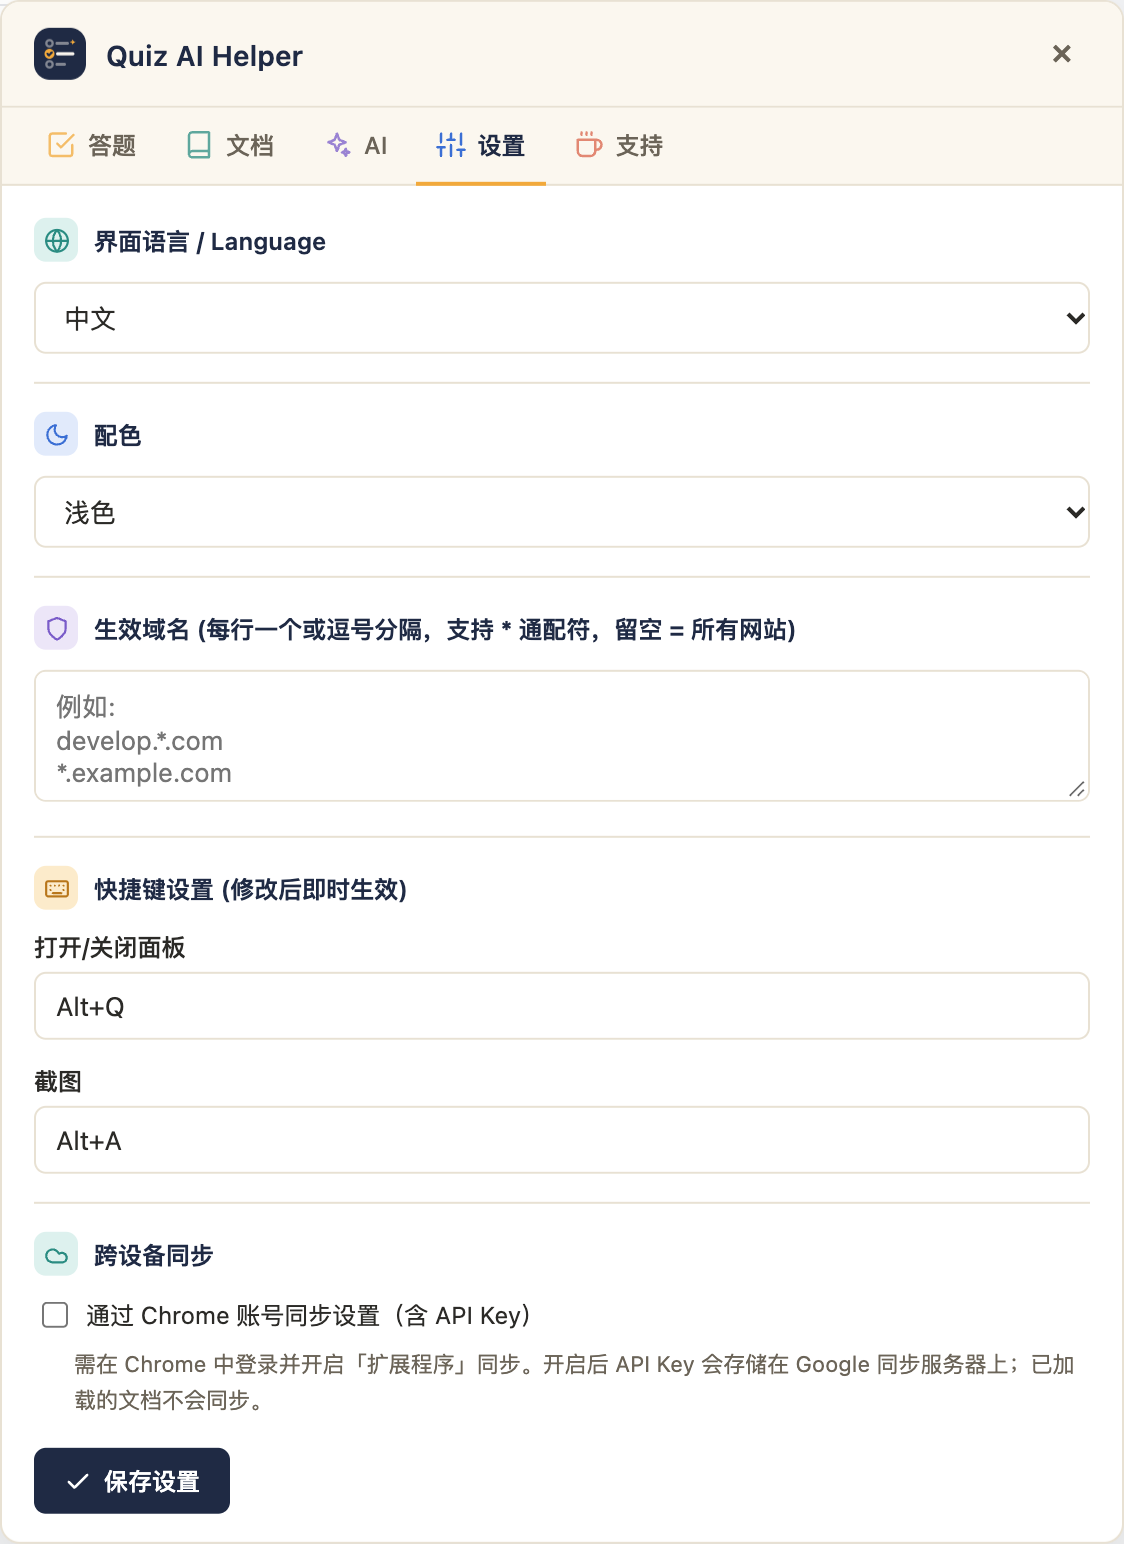
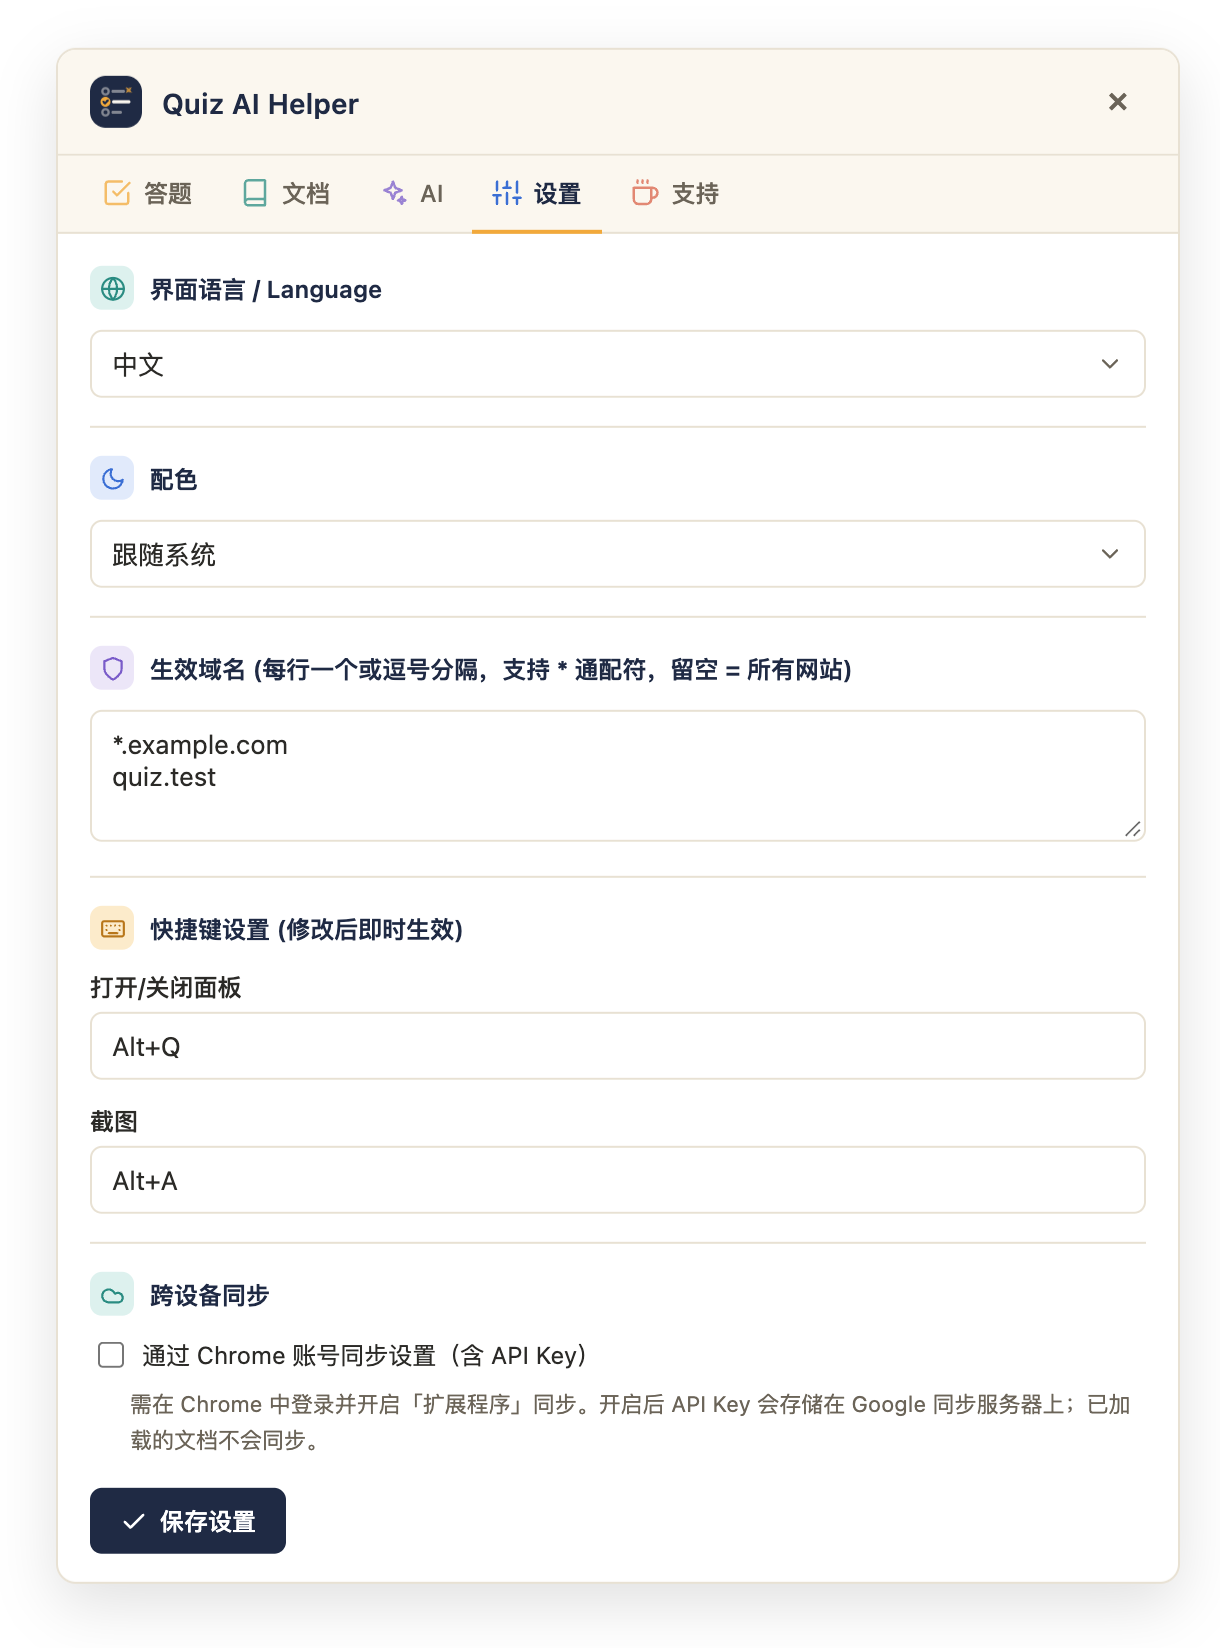
docs: refresh README screenshots with transparent backgrounds, add npm run screenshots
- scripts/screenshots.mjs drives the real build in Playwright against a mock quiz
  page and mock OpenAI-compatible API, writing EN + ZH shots to docs/screenshots
- panel shots are RGBA PNGs (page hidden, shadow kept); new 07-ai-presets shot
- README: multi-provider setup and preset picker, Firefox/Edge support,
  vision notes (DeepSeek has no image input), providers.js in the tree

diff --git a/README.md b/README.md
@@ -8,7 +8,7 @@
 
 **English** | [中文](README.zh-CN.md)
 
-A Chrome extension (Manifest V3): load reference documents, and the AI reads them and answers the quiz questions on the page. Supports screenshot recognition, multiple document formats, and OpenAI / Anthropic or any compatible API.
+A browser extension (Manifest V3) for Chrome, Edge, Firefox and other Chromium browsers: load reference documents, and the AI reads them and answers the quiz questions on the page. Supports screenshot recognition, multiple document formats, and OpenAI / Anthropic or any compatible API.
 
 ## Features
 
@@ -50,6 +50,8 @@ A Chrome extension (Manifest V3): load reference documents, and the AI reads the
 
 Run `npm run dev` (or `npm run dev:firefox`), then load `.output/chrome-mv3-dev` (or `firefox-mv3-dev`) once as an unpacked extension; it rebuilds and reloads the extension on every change. `npm run zip` / `npm run zip:firefox` produce store-ready zips in `.output/`.
 
+After UI changes, `npm run screenshots` rebuilds and regenerates the README screenshots (EN + ZH) in `docs/screenshots/` with Playwright, against a mock quiz page and mock AI API (no key needed; macOS, run `npx playwright install chromium` once).
+
 ### Releasing
 
 Every push and PR is built and checked by GitHub Actions. To publish a release, bump the version and push a matching tag; the workflow attaches the Chrome / Firefox / Edge zips to a GitHub Release:
@@ -70,17 +72,23 @@ After installing, a floating button appears at the bottom right of any enabled p
 
 ### 2. Configure the AI provider
 
-In the **AI** tab, click **Add**, pick a preset (or Custom), enter your API key, pick a model (or click Refresh to fetch the available ones) and save. Add as many as you like and click a card to switch the one in use. The AI answer language is set here too. The **Settings** tab holds the interface language, theme, active domains, hotkeys and sync:
+In the **AI** tab, click **Add** and pick a preset (or Custom):
 
-![AI tab](docs/screenshots/04-ai-tab.png)
+<img src="docs/screenshots/07-ai-presets.png" alt="Choose a provider" width="520">
 
-![Settings tab](docs/screenshots/05-settings-tab.png)
+Enter your API key (each preset links to the page where you get one), pick a model (or click Refresh to fetch the available ones) and save. Add as many as you like and click a card to switch the one in use; with two or more saved, the Answer tab also gets a quick switcher. The AI answer language is set here too:
+
+<img src="docs/screenshots/04-ai-tab.png" alt="AI tab" width="520">
+
+The **Settings** tab holds the interface language, theme, active domains, hotkeys and sync:
+
+<img src="docs/screenshots/05-settings-tab.png" alt="Settings tab" width="520">
 
 ### 3. Load reference documents (optional)
 
 In the **Docs** tab, upload local files (PDF / Word / TXT / Markdown) or paste a link. Multiple selection is supported, and web pages and PDFs are detected automatically:
 
-![Docs tab](docs/screenshots/03-docs-tab.png)
+<img src="docs/screenshots/03-docs-tab.png" alt="Docs tab" width="520">
 
 You can also click **Scan this page** to detect PDFs embedded in the page (`iframe` / `embed` / links) and load them as references in one click. PDFs inside cross-origin iframes are found too: the extension runs inside each iframe and relays the results upward through messages (nested iframes are supported). Wait for the page, including its iframes, to finish loading before scanning.
 
@@ -96,7 +104,7 @@ Screenshots and pastes are added to a list rather than replacing each other, so 
 
 Then click **Ask AI** to get the answer:
 
-![Answer tab](docs/screenshots/02-answer-tab.png)
+<img src="docs/screenshots/02-answer-tab.png" alt="Answer tab" width="520">
 
 ## Language settings
 
@@ -109,7 +117,7 @@ Two separate options:
 
 In the **Settings** tab, pick **Auto** (follows the system light/dark setting, default), **Light** or **Dark**. The change applies immediately.
 
-![Dark theme](docs/screenshots/06-dark-theme.png)
+<img src="docs/screenshots/06-dark-theme.png" alt="Dark theme" width="520">
 
 ## Active domains
 
@@ -125,7 +133,7 @@ Leave it empty to enable all sites again.
 ## Notes
 
 - Screenshots require the current tab to be active.
-- Only vision-capable models (such as `gpt-4o`) can read questions from screenshots.
+- Only vision-capable models (such as `gpt-4o`, Claude, Gemini, `qwen-vl-max`) can read questions from screenshots. The DeepSeek API does not accept images, so with it type the question instead; for Ollama, use a vision model such as `qwen2.5vl`.
 - The third-party libraries for PDF / DOCX parsing and Markdown rendering are injected on demand, only on first use, so everyday browsing is unaffected.
 
 ## Project structure
@@ -142,13 +150,16 @@ Built with [WXT](https://wxt.dev); the manifest is generated per browser from `w
 │       ├── index.js       # Content script entry (matches / frames)
 │       ├── main.js        # UI panel, answering logic
 │       ├── i18n.js        # Chinese / English strings and prompt dictionaries
-│       ├── icons.js       # Logo and line-icon SVGs
+│       ├── icons.js       # Logo, line-icon and provider brand SVGs
+│       ├── providers.js   # AI provider presets (endpoint, model, key link)
 │       └── style.css      # Panel styles
 ├── public/                # Copied as-is into the build
 │   ├── _locales/          # Store name and description (zh_CN / en)
 │   ├── lib/               # Third-party libraries (pdf.js / marked / mammoth)
 │   └── images/            # Extension icons, donation QR codes
-├── scripts/check-i18n.mjs # Checks zh / en strings match (run in CI)
+├── scripts/
+│   ├── check-i18n.mjs     # Checks zh / en strings match (run in CI)
+│   └── screenshots.mjs    # Regenerates docs/screenshots (npm run screenshots)
 └── docs/screenshots/      # README screenshots
 ```
 

diff --git a/README.zh-CN.md b/README.zh-CN.md
@@ -8,7 +8,7 @@
 
 **中文** | [English](README.md)
 
-一个 Chrome 扩展（Manifest V3）：加载参考文档后，AI 理解文档内容并根据页面上的题目自动作答。支持截图识题、多种文档格式，可接入 OpenAI / Anthropic 或任意兼容 API。
+一个浏览器扩展（Manifest V3，支持 Chrome / Edge / Firefox 等）：加载参考文档后，AI 理解文档内容并根据页面上的题目自动作答。支持截图识题、多种文档格式，可接入 OpenAI / Anthropic 或任意兼容 API。
 
 ## 功能特性
 
@@ -50,6 +50,8 @@
 
 运行 `npm run dev`（或 `npm run dev:firefox`），然后把 `.output/chrome-mv3-dev`（或 `firefox-mv3-dev`）作为已解压扩展加载一次，之后改代码会自动重新构建并重载扩展。`npm run zip` / `npm run zip:firefox` 在 `.output/` 下生成可上传商店的 zip。
 
+改了界面后，`npm run screenshots` 会重新构建，并用 Playwright 在模拟的题目页面和 AI 接口上重新生成 `docs/screenshots/` 里的中英文 README 截图（无需 API Key；仅限 macOS，首次需运行 `npx playwright install chromium`）。
+
 ### 发布
 
 每次 push 和 PR 都会由 GitHub Actions 自动构建并检查。要发布新版本，先改版本号再推送对应的 tag，工作流会把 Chrome / Firefox / Edge 的 zip 附加到 GitHub Release：
@@ -70,17 +72,23 @@ git tag v0.2.0 && git push --follow-tags
 
 ### 2. 配置 AI 服务商
 
-在 **AI** 标签中点「添加」，选一个预设（或自定义），填入 API Key、选择模型（或点「刷新列表」拉取可用模型）后保存。可以添加多个，点卡片切换当前使用的服务商。AI 回答语言也在这里设置。**设置** 标签里是界面语言、配色、生效域名、快捷键和跨设备同步：
+在 **AI** 标签中点「添加」，选一个预设（或自定义）：
 
-![AI 标签](docs/screenshots/04-ai-tab-zh.png)
+<img src="docs/screenshots/07-ai-presets-zh.png" alt="选择服务商" width="520">
 
-![设置标签](docs/screenshots/05-settings-tab-zh.png)
+填入 API Key（每个预设都附有申请 Key 的链接），选择模型（或点「刷新列表」拉取可用模型）后保存。可以添加多个，点卡片切换当前使用的服务商；保存了两个及以上时，答题页右上角也能快速切换。AI 回答语言也在这里设置：
+
+<img src="docs/screenshots/04-ai-tab-zh.png" alt="AI 标签" width="520">
+
+**设置** 标签里是界面语言、配色、生效域名、快捷键和跨设备同步：
+
+<img src="docs/screenshots/05-settings-tab-zh.png" alt="设置标签" width="520">
 
 ### 3. 加载参考文档（可选）
 
 在 **文档** 标签中上传本地文件（PDF / Word / TXT / Markdown）或粘贴链接，支持多选和网页链接自动识别：
 
-![文档标签](docs/screenshots/03-docs-tab-zh.png)
+<img src="docs/screenshots/03-docs-tab-zh.png" alt="文档标签" width="520">
 
 也可以点 **扫描当前页面** 自动检测页面内嵌的 PDF（`iframe` / `embed` / 页面链接），一键加载为参考文档。跨域 iframe 中的 PDF 也能扫到：扩展会在每个 iframe 内运行并通过消息中继汇总结果（支持多层嵌套）。注意扫描时需等页面（含 iframe）完全加载。
 
@@ -96,7 +104,7 @@ git tag v0.2.0 && git push --follow-tags
 
 然后点击 **AI 作答** 获取答案：
 
-![答题标签](docs/screenshots/02-answer-tab-zh.png)
+<img src="docs/screenshots/02-answer-tab-zh.png" alt="答题标签" width="520">
 
 ## 语言设置
 
@@ -109,7 +117,7 @@ git tag v0.2.0 && git push --follow-tags
 
 在 **设置** 标签中选择 **跟随系统**（默认，按系统明/暗模式自动切换）、**浅色** 或 **深色**，切换后立即生效。
 
-![深色配色](docs/screenshots/06-dark-theme-zh.png)
+<img src="docs/screenshots/06-dark-theme-zh.png" alt="深色配色" width="520">
 
 ## 生效域名
 
@@ -125,7 +133,7 @@ develop.*.com
 ## 注意事项
 
 - 截图功能需要当前标签页处于激活状态。
-- 使用视觉模型（如 `gpt-4o`）才能识别截图中的题目。
+- 使用视觉模型（如 `gpt-4o`、Claude、Gemini、`qwen-vl-max`）才能识别截图中的题目。DeepSeek 的 API 不支持图片输入，只能手动输入题目；Ollama 请选用视觉模型（如 `qwen2.5vl`）。
 - PDF / DOCX 解析和 Markdown 渲染所需的第三方库为按需加载，仅在首次使用时注入，不影响日常浏览性能。
 
 ## 项目结构
@@ -142,13 +150,16 @@ develop.*.com
 │       ├── index.js       # 内容脚本入口（匹配规则 / frame）
 │       ├── main.js        # UI 面板、答题逻辑
 │       ├── i18n.js        # 中 / 英文案与提示词词典
-│       ├── icons.js       # Logo 与线性图标 SVG
+│       ├── icons.js       # Logo、线性图标与服务商品牌图标 SVG
+│       ├── providers.js   # AI 服务商预设（endpoint、模型、Key 申请链接）
 │       └── style.css      # 面板样式
 ├── public/                # 原样复制进构建产物
 │   ├── _locales/          # 商店名称与描述（zh_CN / en）
 │   ├── lib/               # 第三方库（pdf.js / marked / mammoth）
 │   └── images/            # 扩展图标、赞赏码（微信 / 支付宝）
-├── scripts/check-i18n.mjs # 校验中 / 英文案一致（CI 中运行）
+├── scripts/
+│   ├── check-i18n.mjs     # 校验中 / 英文案一致（CI 中运行）
+│   └── screenshots.mjs    # 重新生成 docs/screenshots（npm run screenshots）
 └── docs/screenshots/      # README 截图
 ```
 

diff --git a/CLAUDE.md b/CLAUDE.md
@@ -26,7 +26,7 @@ Quiz AI Helper — 浏览器扩展 (Manifest V3，基于 [WXT](https://wxt.dev) 
   - `style.css` — 面板全部样式；选择器一律以 `#qah-btn` / `#qah-panel` 限定，避免污染宿主页面
 - `public/` — 原样复制到构建产物根目录（路径不变）：`_locales/`、`lib/`、`images/`
 - `public/images/icons/` — 扩展图标（16/32/48/128），由 `icons.js` 里的 `LOGO_SVG` 渲染而来；改 logo 时同步重新导出。logo 动画纯 CSS（`style.css` 里 `.qah-logo` 规则）：待机星光闪烁 / hover 弹出 / `setLogoThinking()` 在 `askAI()` 期间让金色圆点扫描选项，结束时落定打勾
-- `docs/screenshots/` — README 截图（不打包进扩展）
+- `docs/screenshots/` — README 截图（不打包进扩展），由 `npm run screenshots`（`scripts/screenshots.mjs`，Playwright + 本地 mock 题目页 / AI 接口）生成中英两套；面板图是透明底 RGBA PNG。改了界面要重拍；新增截图在脚本里加一步并同步两份 README。Playwright 版本锁定为与已装 Chromium 匹配的版本（`npx playwright install chromium`）
 - 配色「墨蓝 + 金盏黄」：CSS 变量定义在 `style.css` 的 `#qah-btn,#qah-panel{--qah-*}`（`--qah-ink` #1F2A44 主色 / `--qah-gold` #F2A93B 强调 / `--qah-paper` #FBF7EF 纸色），组件里不要写裸 hex；下拉框统一去掉原生箭头（`appearance:none`），用 `--qah-chevron`（随主题定义的 SVG data URI）画在距右边框 10px 处，新增 select 放进 `.qah-field` 即可自动套用；辅助色 teal/blue/violet/coral（各带 `-soft` 底色）只用于图标色块
 - 明/暗配色：`config.theme`（auto/light/dark，auto 跟随 `prefers-color-scheme`）→ `applyTheme()` 给 `#qah-btn` / `#qah-panel` 设 `data-theme`，`style.css` 的 `[data-theme=dark]` 块只覆盖 `--qah-*` 变量。暗色下 `--qah-ink` 翻成浅色（标题/主按钮），logo 底色用 `--qah-brand`（始终墨蓝）；新增颜色必须两套都定义
 - 图标：`ICON_PATHS` + `icon(name)` / `chip(name, tone)` / `groupTitle()`（`icons.js`），线性图标 stroke=currentColor，不用 emoji
